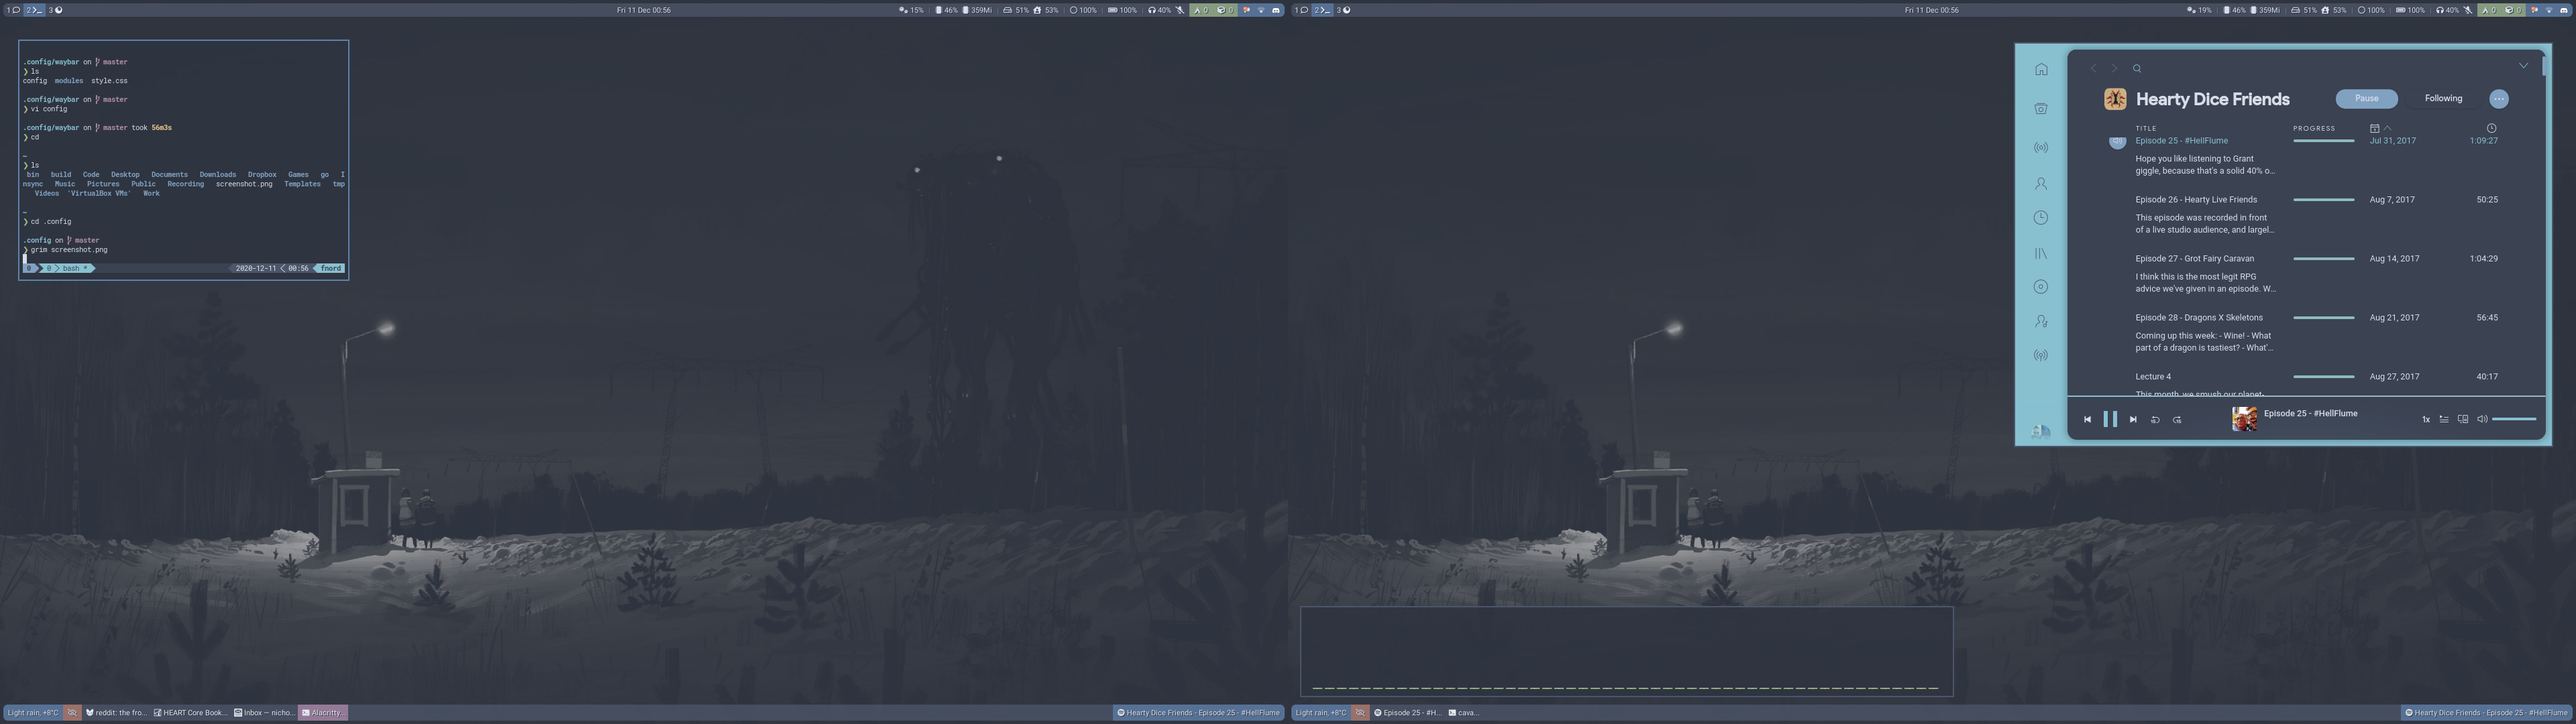
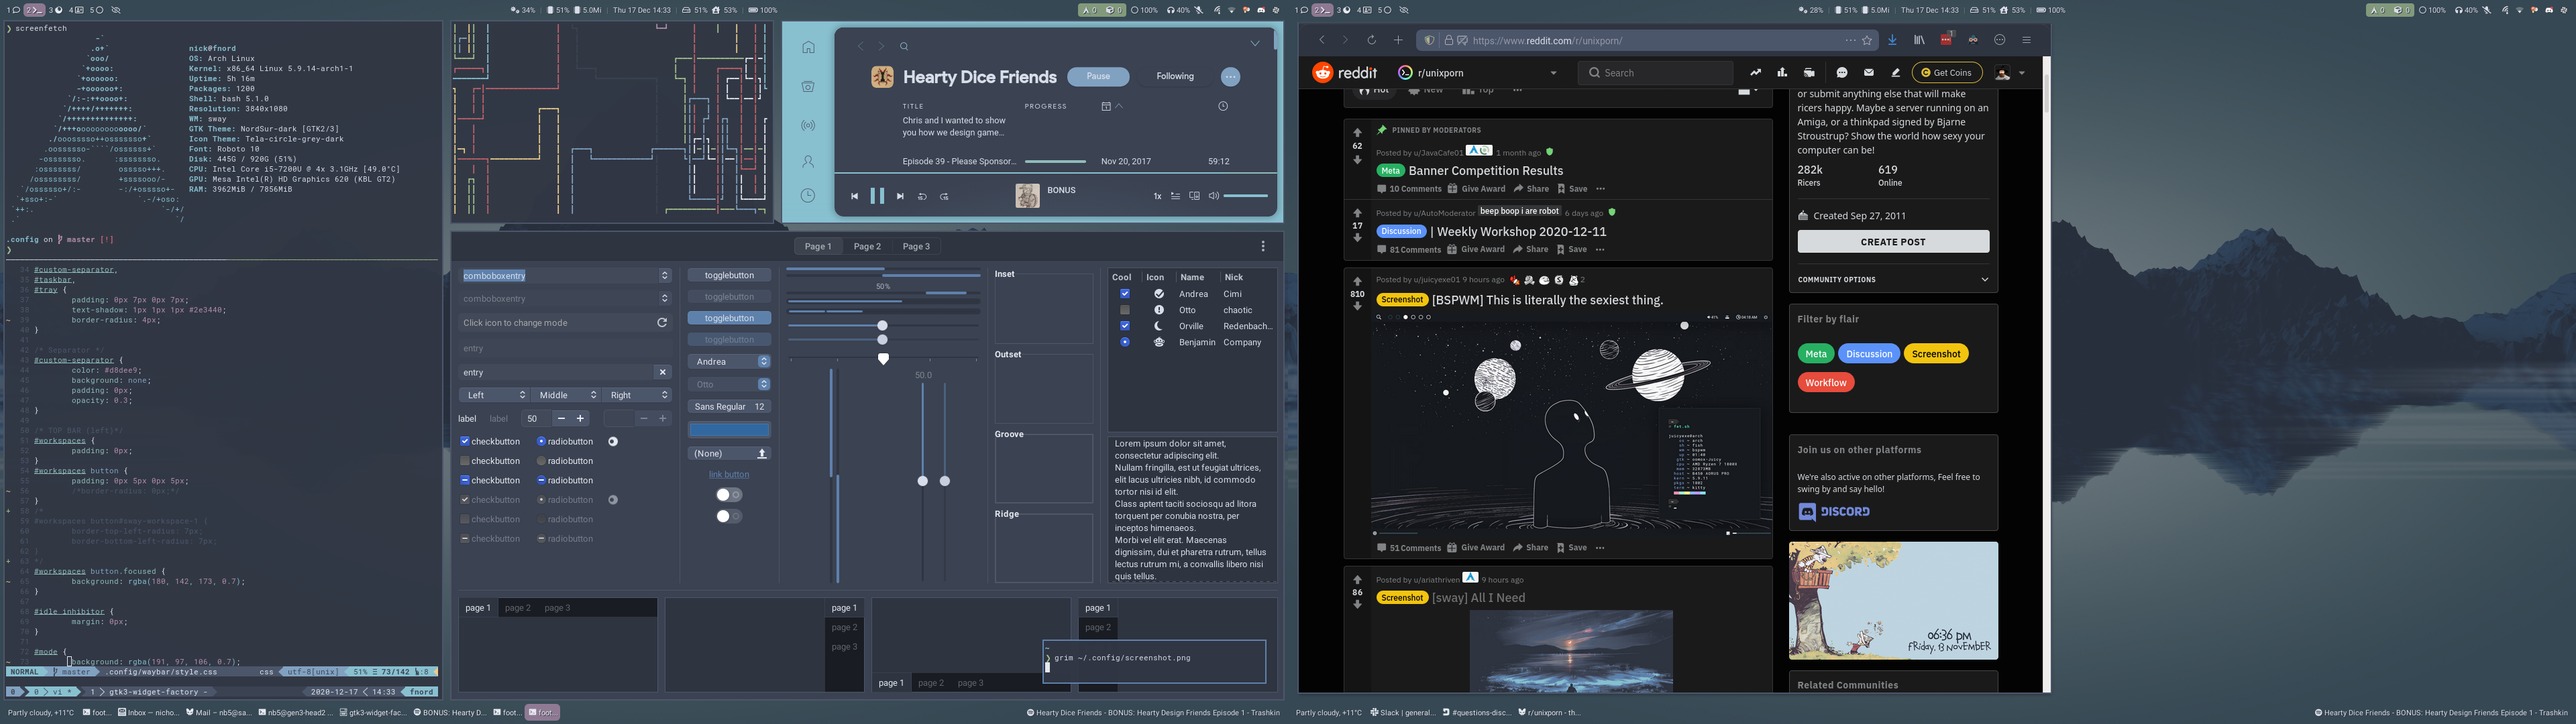
transparent waybar with higlights

diff --git a/waybar/style.css b/waybar/style.css
@@ -5,7 +5,8 @@
 
 window#waybar {
 	color: #d8dee9;
-	background: linear-gradient(90deg, rgba(180, 142, 173, 0.5) 0%, rgba(94,129,172, 0.5) 50%, rgba(163, 190, 140, 0.5) 100%);
+	/*background: linear-gradient(90deg, rgba(180, 142, 173, 0.7) 0%, rgba(94,129,172, 0.7) 50%, rgba(163, 190, 140, 0.7) 100%);*/
+	background: rgba(76,86,106,0);
 	border-radius: 7px;
 }
 
@@ -35,7 +36,7 @@ window#waybar {
 #tray {
 	padding: 0px 7px 0px 7px;
 	text-shadow: 1px 1px 1px #2e3440;
-	border-radius: 0px;
+	border-radius: 4px;
 }
 
 /* Separator */
@@ -52,14 +53,16 @@ window#waybar {
 }
 #workspaces button {
 	padding: 0px 5px 0px 5px;
-	border-radius: 0px;
+	/*border-radius: 0px;*/
 }
+/*
 #workspaces button#sway-workspace-1 {
 	border-top-left-radius: 7px;
 	border-bottom-left-radius: 7px;
 }
+*/
 #workspaces button.focused {
-	background: rgba(180, 142, 173, 0.5);
+	background: rgba(180, 142, 173, 0.7);
 }
 
 #idle_inhibitor {
@@ -67,7 +70,7 @@ window#waybar {
 }
 
 #mode {
-	background: rgba(191, 97, 106, 0.5);
+	background: rgba(191, 97, 106, 0.7);
 }
 
 /* TOP BAR (right/center) */
@@ -80,49 +83,60 @@ window#waybar {
 	padding-left: 3px;
 }
 
-/*
+
 #custom-updates.no-updates,
 #custom-auroch.no-updates {
 	background: rgba(163, 190, 140, 0.7);
 }
-*/
 #custom-updates.updates,
 #custom-auroch.updates {
-	background: rgba(180, 142, 173, 0.5);
+	background: rgba(180, 142, 173, 0.7);
 }
 #custom-updates.error,
 #custom-auroch.error {
-	background: rgba(191, 97, 106, 0.5);
+	background: rgba(191, 97, 106, 0.7);
+}
+#custom-updates {
+	border-top-right-radius: 0px;
+	border-bottom-right-radius: 0px;
+}
+#custom-auroch {
+	border-top-left-radius: 0px;
+	border-bottom-left-radius: 0px;
 }
 
+/*
 #tray {
 	border-top-right-radius: 7px;
 	border-bottom-right-radius: 7px;
 }
+*/
 
 /* BOTTOM BAR (left to right)*/
 #custom-weather {
 	padding-top: 5px;
 	padding-bottom: 5px;
-	border-top-left-radius: 7px;
-	border-bottom-left-radius: 7px;
+	/*border-top-left-radius: 7px;
+	border-bottom-left-radius: 7px;*/
 }
 
 #taskbar {
 	padding-left: 0px;
 }
 #taskbar button {
-	border-radius: 0px;
+	/*border-radius: 0px;*/
 	padding-right: 3px;
 	padding-top: 0px;
 	padding-bottom: 0px;
 	text-shadow: 1px 1px 1px #2e3440;
 }
 #taskbar button.active {
-	background: rgba(180, 142, 173, 0.5);
+	background: rgba(180, 142, 173, 0.7);
 }
 
+/*
 #custom-spotify {
 	border-top-right-radius: 7px;
 	border-bottom-right-radius: 7px;
 }
+*/
